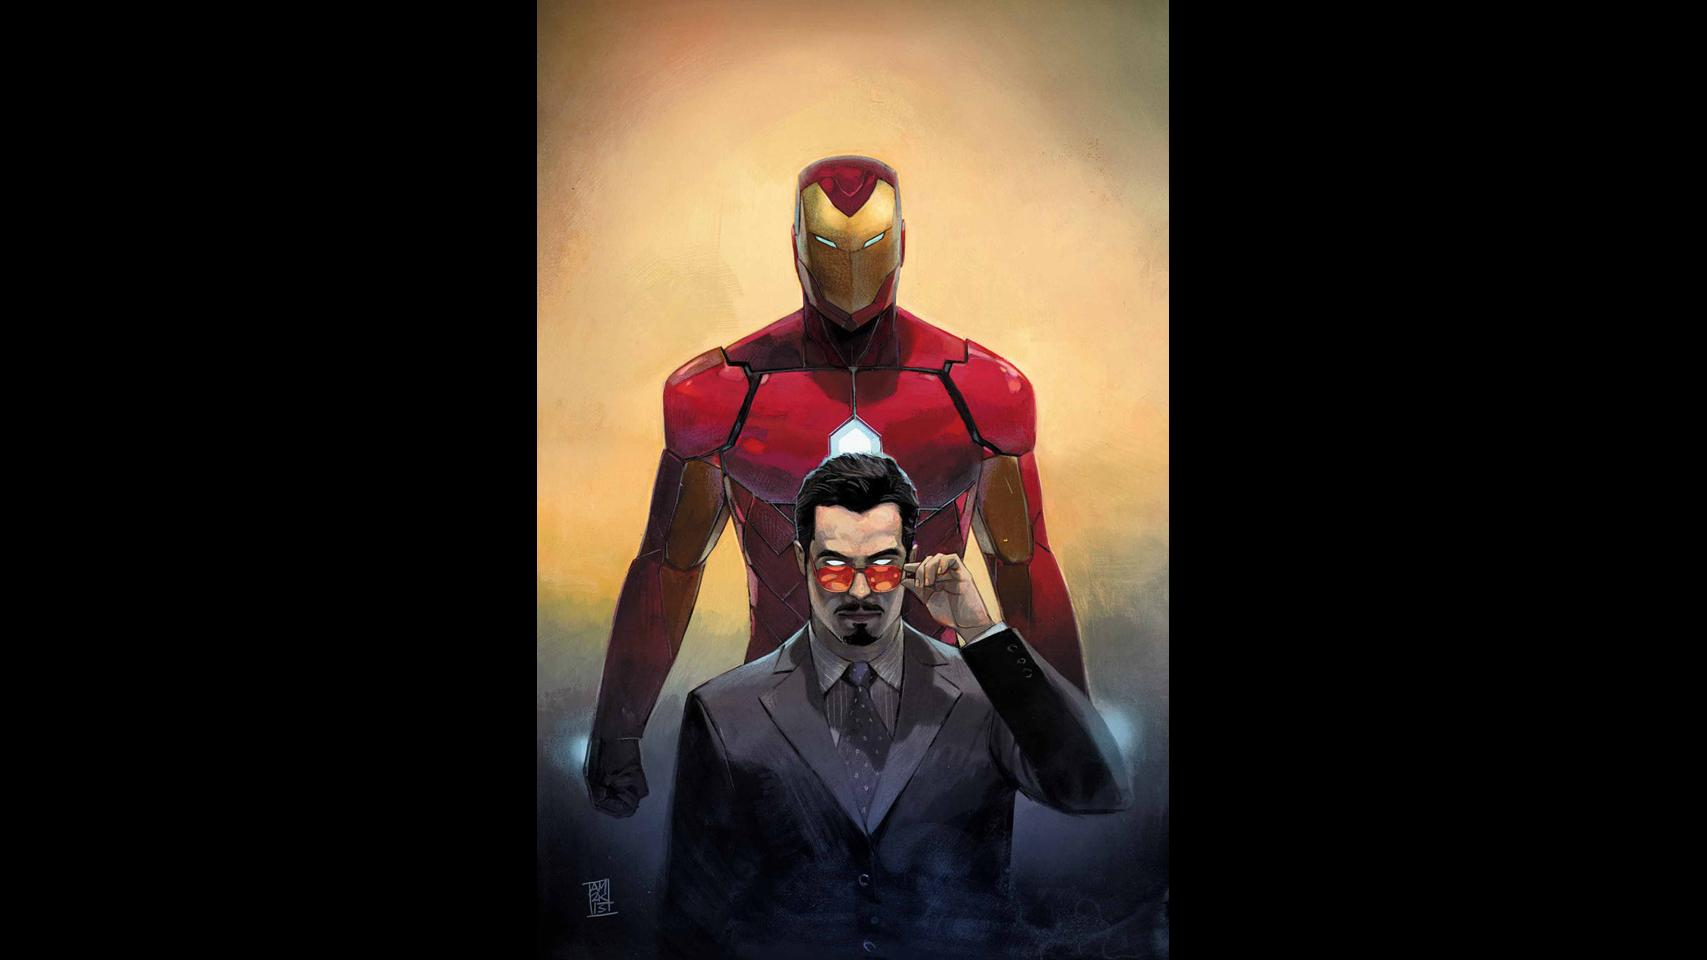
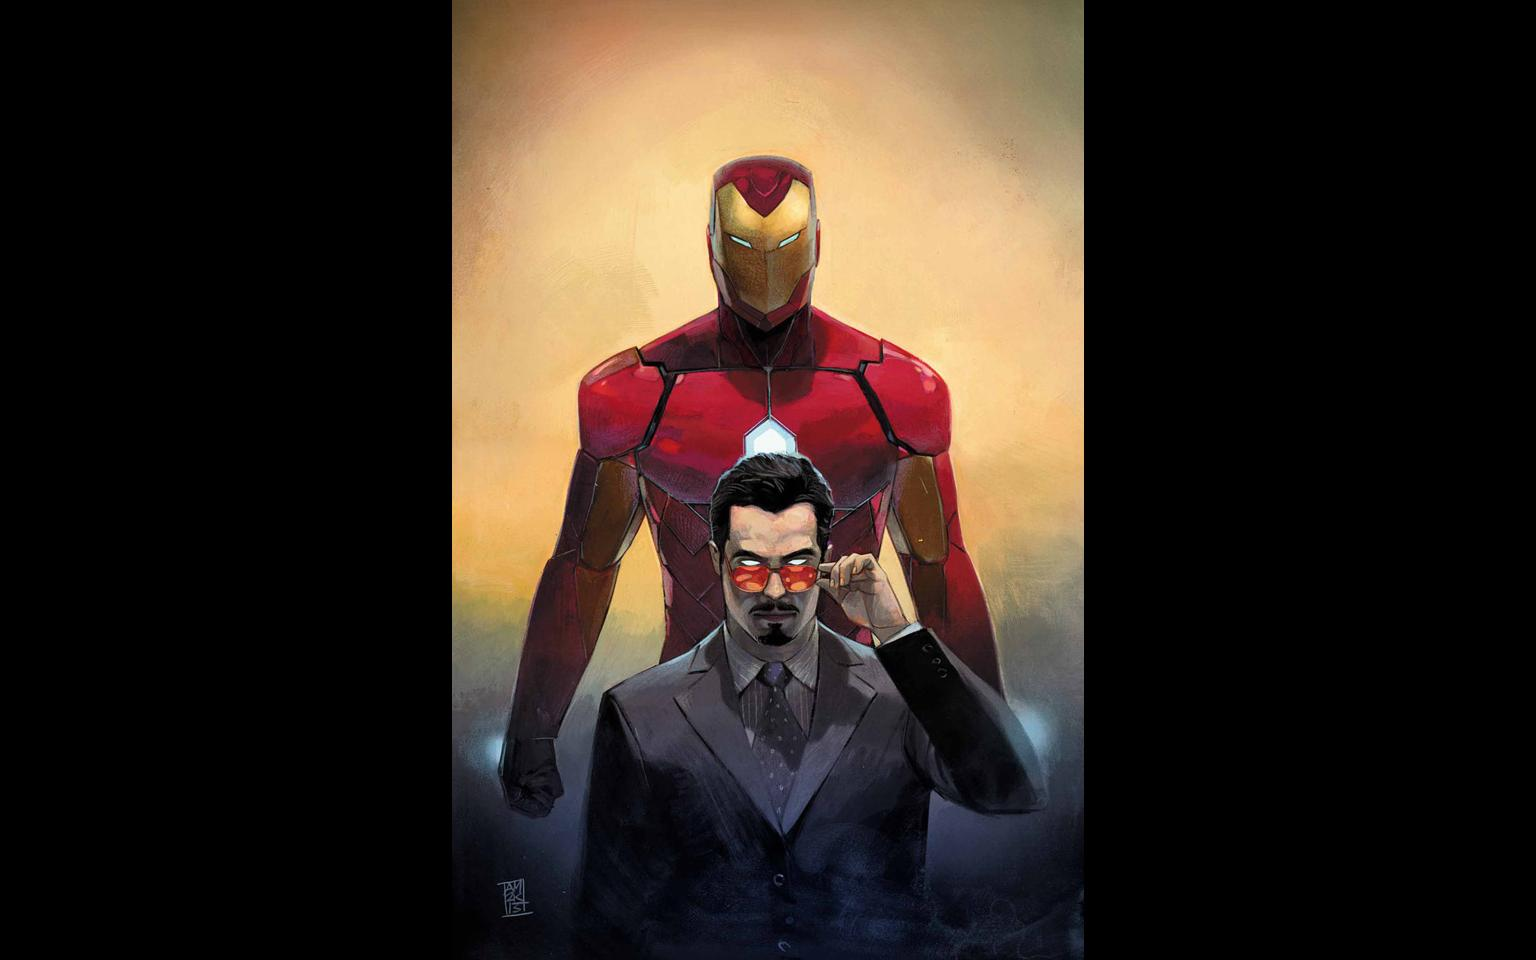
Added resize to all pictures when changing in settings.
Added resize to all pictures when changing in settings.

Changed region(s): [[0.2812, 0.0, 0.7188, 1.0], [0.5, 0.8125, 0.5312, 0.875]]

diff --git a/chargingbooth/models.py b/chargingbooth/models.py
@@ -63,6 +63,8 @@ class Settings(db.Model):
 	charge_time = db.Column(db.Integer) #Seconds
 	time_offset = db.Column(db.String(20)) # timezone offset
 	location = db.Column(db.String(100)) # Location of the device
+	aspect_ratio_width = db.Column(db.Float) # Screen Ratio Width
+	aspect_ratio_height = db.Column(db.Float) # Screen Ratio Height
 
 
 ###############
@@ -240,7 +242,7 @@ class Sessions_Container:
 									power_used=self.local_sessions[index].power_used(), 
 									amount_paid=self.local_sessions[index].amount_paid, 
 									location=self.local_sessions[index].location, 
-									port=self.local_sessions[index].port,
+									port=self.local_sessions[index].port if self.local_sessions[index].port != "" else "No Port Assigned",
 									increment_size=self.local_sessions[index].increment_size, 
 									increments=self.local_sessions[index].increments)
 
@@ -286,13 +288,14 @@ class PFI:
 	def get_resized_copy(self):
 		return self.resized_pic_files.copy()
 
-	def save_file(self, file):
+	def save_file(self, file, resize_width, resize_height):
 		file_path = os.path.join(current_app.root_path, 'static', 'picture_files', file.filename)
 		file.save(file_path)
 
 		# Do resizing here
 		# Last two values should be width and height of desired ratio
-		re_img = self.resize_image(file, 'black', 1366, 768)
+		background_color = 'black'
+		re_img = self.resize_image(file, background_color, resize_width, resize_height)
 
 		resized_file_path = os.path.join(current_app.root_path, 'static', 'picture_files', 'resized', file.filename)
 		re_img.save(resized_file_path)
@@ -329,6 +332,21 @@ class PFI:
 
 		resized_files_path = os.path.join(current_app.root_path, 'static', 'picture_files', 'resized')
 		self.resized_pic_files = [f for f in listdir(resized_files_path) if isfile(join(resized_files_path, f))]
+
+	def resize_all(self, resize_width, resize_height):
+		background_color = 'black'
+		for file in self.pic_files:
+			file_path = os.path.join(current_app.root_path, 'static', 'picture_files', file)
+			resized_file_path = os.path.join(current_app.root_path, 'static', 'picture_files', 'resized', file)
+
+			# Delete old resized image
+			os.remove(resized_file_path)
+
+			# resize the original image
+			re_img = self.resize_image(file_path, background_color, resize_width, resize_height)
+
+			# Save the resized image
+			re_img.save(resized_file_path)
 
 
 	# Return a new image that is resized with black padding

diff --git a/chargingbooth/system_admin/routes.py b/chargingbooth/system_admin/routes.py
@@ -156,6 +156,20 @@ def settings():
 		Settings.query.first().charge_time = minutes*60 + seconds;
 		Settings.query.first().time_offset = form.time_zone.data
 		Settings.query.first().location = form.location.data
+
+		# Check if aspect ration is different so that it can resize all images
+		resize = False
+		if Settings.query.first().aspect_ratio_width != float(form.aspect_ratio.data.split(":")[0]) and \
+			Settings.query.first().aspect_ratio_height != float(form.aspect_ratio.data.split(":")[1]):
+			resize = True
+
+		Settings.query.first().aspect_ratio_width = float(form.aspect_ratio.data.split(":")[0])
+		Settings.query.first().aspect_ratio_height = float(form.aspect_ratio.data.split(":")[1])
+
+		if resize:
+			pic_files = PFI()
+			pic_files.resize_all(Settings.query.first().aspect_ratio_width, Settings.query.first().aspect_ratio_height)
+
 		db.session.commit()
 		flash('Settings have been updated!', 'success')
 		return redirect(url_for('system_admin.settings'))
@@ -168,6 +182,7 @@ def settings():
 		form.charge_time_sec.data = seconds
 		form.time_zone.data = Settings.query.first().time_offset
 		form.location.data = Settings.query.first().location
+		form.aspect_ratio.data = str(Settings.query.first().aspect_ratio_width) + ":" + str(Settings.query.first().aspect_ratio_height)
 
 	return render_template('system_admin/settings.html', title='Settings', form=form)
 
@@ -241,9 +256,12 @@ def upload_image():
 
 	form = SlideShowPicsForm()
 	if form.validate_on_submit():
-		pic_files.save_file(form.picture.data)
+		# TODO: iterate through all the files selected
+		for file in form.picture.data:
+			pic_files.save_file(file, Settings.query.first().aspect_ratio_width,
+								Settings.query.first().aspect_ratio_height)
 
-		flash('Picture has been uploaded', 'success')
+		flash('Pictures has been uploaded', 'success')
 		return redirect(url_for('system_admin.upload_image'))
 
 	return render_template("system_admin/upload_image.html", title="Upload Image", form=form,

diff --git a/chargingbooth/system_admin/forms.py b/chargingbooth/system_admin/forms.py
@@ -1,13 +1,15 @@
 from flask_wtf import FlaskForm
 from flask_wtf.file import FileField, FileAllowed
 from wtforms import (StringField, PasswordField, SubmitField, BooleanField, IntegerField,
-					 SelectField)
+					 SelectField, MultipleFileField)
 from wtforms.validators import (DataRequired, Length, EqualTo, ValidationError, Email, 
 								InputRequired, NumberRange)
 from flask_login import current_user
 from chargingbooth.models import User
 import pytz
 
+
+aspect_ratio_list = ['1:1', '5:4', '3:2', '16:10', '16:9', '1.85:1', '2.35:1']
 
 #Login
 class LoginForm(FlaskForm):
@@ -75,13 +77,14 @@ class SettingsForm(FlaskForm):
 	charge_time_min = IntegerField('Allowed Charge Time (minutes)', validators=[InputRequired(), NumberRange(min=0, message="Cannot be negative")])
 	charge_time_sec = IntegerField('Allowed Charge Time (seconds)', validators=[InputRequired(), NumberRange(min=0, message="Cannot be negative")])
 	time_zone = SelectField('Timezone', choices=pytz.all_timezones)
-	location = StringField('Location', validators=[])
+	location = StringField('Location', validators=[Length(max=100, message="Max character is 100")])
+	aspect_ratio = SelectField('Aspect Ratio', choices=aspect_ratio_list)
 
 	submit = SubmitField('Update Settings')
 
 # Slide Show Pictures
 class SlideShowPicsForm(FlaskForm):
-	picture = FileField('Upload Picture', validators=[DataRequired(), FileAllowed(['jpg', 'jpeg', 'jfif', 'pjpeg', 'pjp', 'png'])])
+	picture = MultipleFileField('Upload Pictures', validators=[DataRequired(), FileAllowed(['jpg', 'jpeg', 'jfif', 'pjpeg', 'pjp', 'png'])])
 	submit = SubmitField('Upload Picture')
 
 # Remove Picture Form

diff --git a/chargingbooth/kiosk_mode/routes.py b/chargingbooth/kiosk_mode/routes.py
@@ -64,7 +64,7 @@ def make_session():
 		setting = Settings.query.first()
 
 		current_sessions.add_session(amount_paid=setting.price, location=setting.location,
-										port="1", increment_size=setting.charge_time, increments=1)
+										port="", increment_size=setting.charge_time, increments=1)
 		flash('Session Added Successfully! You may start charging now.')
 
 	return redirect(url_for('kiosk_mode.home'))
